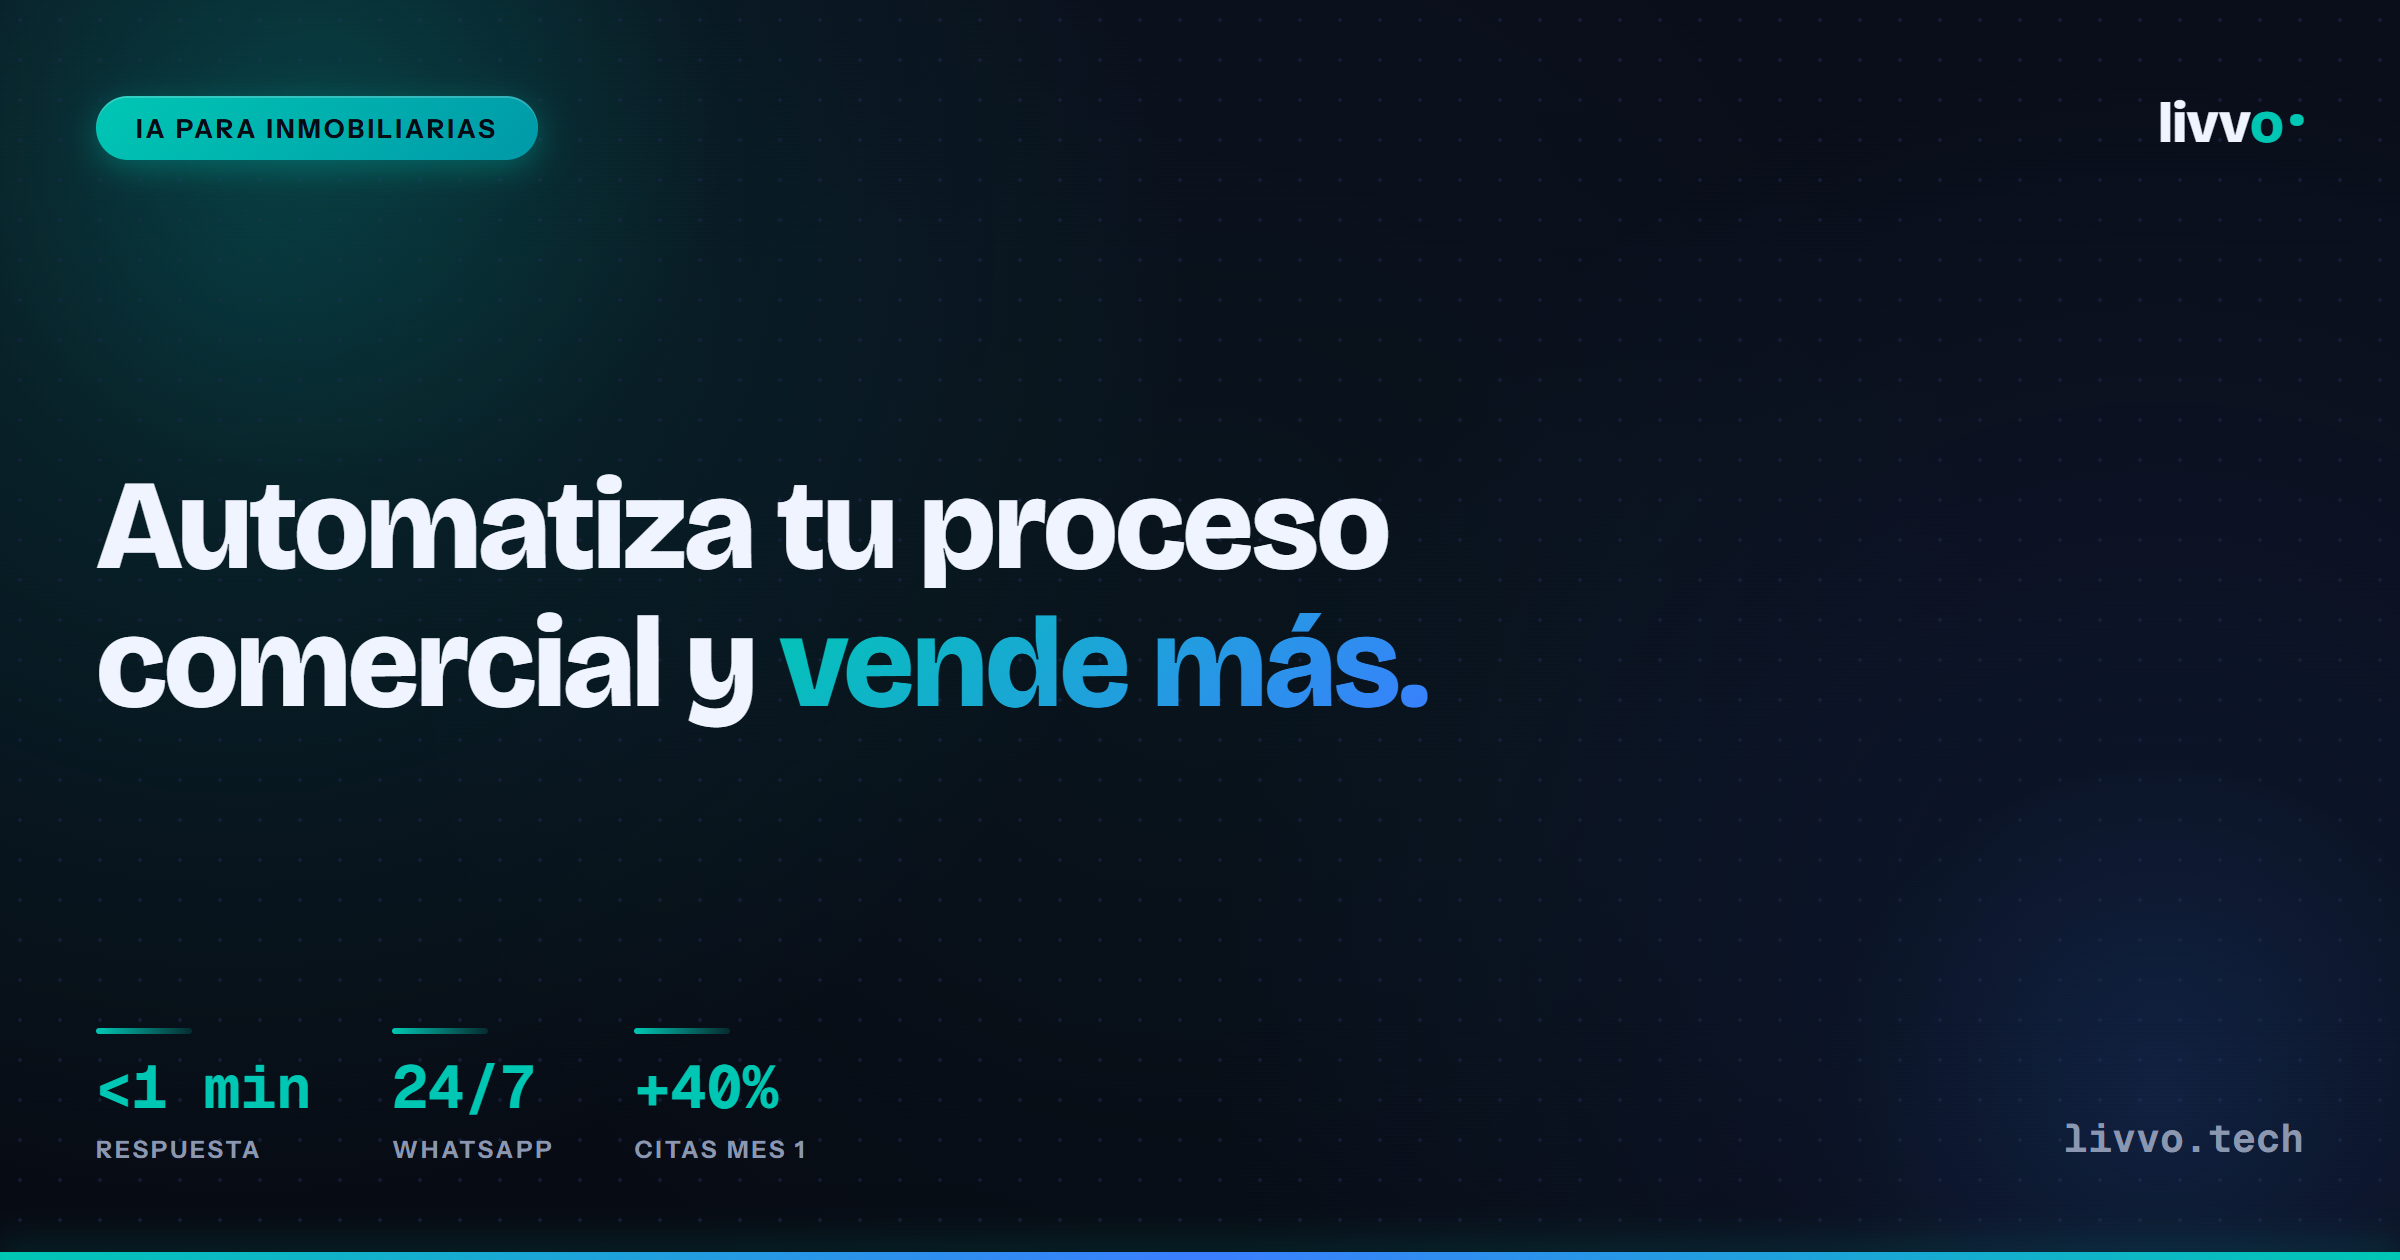
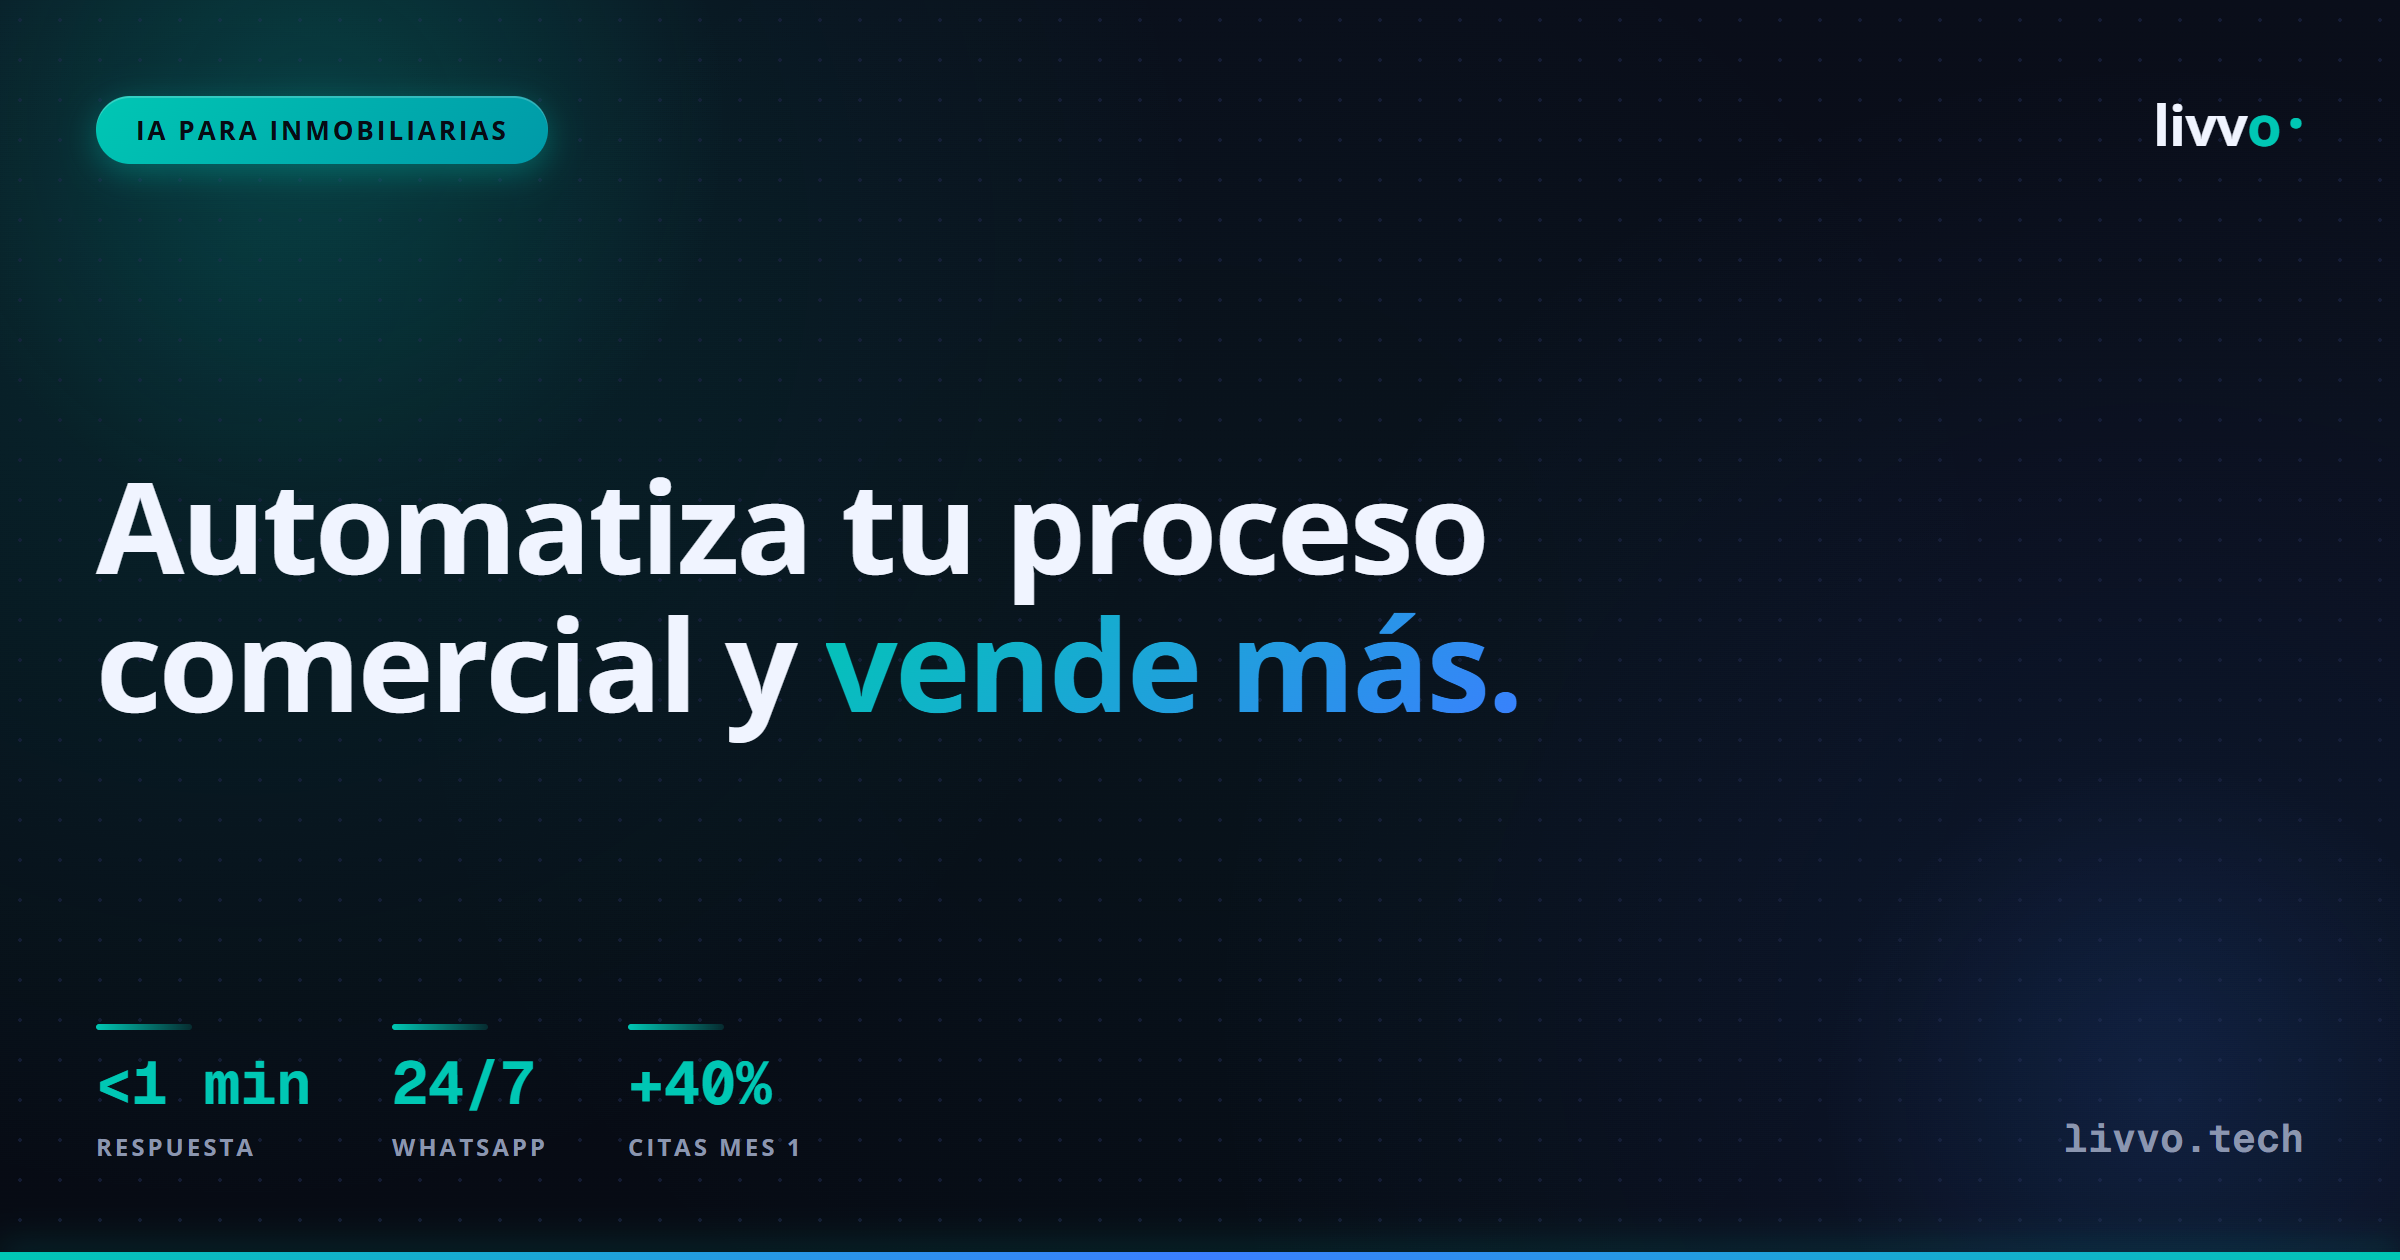
Marketing tambien migra a Open Sans
- marketing-design-system.md (espejo del skill livvo-designer):
  Open Sans reemplaza a Bricolage/Instrument en tipografia, recetas
  y patrones; pesos maximos 700
- og.png regenerado con Open Sans
- README del design system: la decision tipografica ahora cubre
  toda la marca

diff --git a/design-system/marketing-design-system.md b/design-system/marketing-design-system.md
@@ -113,29 +113,30 @@ background: linear-gradient(135deg, rgba(0, 199, 180, 0.06) 0%, rgba(59, 126, 25
 
 ### Typography
 
-Livvo uses **three font families** with strict, non-negotiable roles. Always import all three:
+Livvo uses **two font families** (decisión de marca 22-jul-2026 — Open Sans reemplazó a
+Bricolage Grotesque e Instrument Sans en toda la marca; jerarquía por peso, tipo Zillow,
+por credibilidad con compradores inmobiliarios LATAM). Always import both:
 
 ```html
 <link rel="preconnect" href="https://fonts.googleapis.com">
 <link rel="preconnect" href="https://fonts.gstatic.com" crossorigin>
-<link href="https://fonts.googleapis.com/css2?family=Bricolage+Grotesque:opsz,wght@12..96,400;12..96,700;12..96,800&family=Instrument+Sans:ital,wght@0,400;0,600;1,400&family=Geist+Mono:wght@400;700&display=swap" rel="stylesheet">
+<link href="https://fonts.googleapis.com/css2?family=Open+Sans:wght@300;400;600;700&family=Geist+Mono:wght@400;700&display=swap" rel="stylesheet">
 ```
 
 | Family | Role | Never use for |
 |--------|------|---------------|
-| **Bricolage Grotesque** | Display & Headlines — wordmark, hero titles, section headers | Body copy, labels, data |
-| **Instrument Sans** | UI & Body — buttons, labels, body copy, navigation | Headlines, metrics |
+| **Open Sans** | Todo el texto — titulares (700), labels (600), cuerpo (400) | Metrics, data |
 | **Geist Mono** | Code & Data — metrics, IDs, timestamps, stats, technical values | Any flowing prose |
 
 | Element | Size | Weight | Family | Color (dark bg) | Letter Spacing |
 |---------|------|--------|--------|-----------------|----------------|
-| Hero / Display | 56–80px | 800 | Bricolage Grotesque | `#F0F4FF` | -1px |
-| H1 | 36–48px | 800 | Bricolage Grotesque | `#F0F4FF` | -0.5px |
-| H2 | 24–32px | 700 | Bricolage Grotesque | `#F0F4FF` | 0 |
-| H3 | 18–22px | 600 | Instrument Sans | `#F0F4FF` | 0 |
-| Body Large | 16–18px | 400 | Instrument Sans | `#8B96AF` | 0 |
-| Body Regular | 13–15px | 400 | Instrument Sans | `#8B96AF` | 0 |
-| Label / Tag | 10–13px | 700 | Instrument Sans | `#00C7B4` | 1.5–2px |
+| Hero / Display | 56–72px | 700 | Open Sans | `#F0F4FF` | -1px |
+| H1 | 36–48px | 700 | Open Sans | `#F0F4FF` | -0.5px |
+| H2 | 24–32px | 700 | Open Sans | `#F0F4FF` | -0.5px |
+| H3 | 18–22px | 600 | Open Sans | `#F0F4FF` | 0 |
+| Body Large | 16–18px | 400 | Open Sans | `#8B96AF` | 0 |
+| Body Regular | 13–15px | 400 | Open Sans | `#8B96AF` | 0 |
+| Label / Tag | 10–13px | 600 | Open Sans | `#00C7B4` | 0.5–1px |
 | Metric / Stat | 20–40px | 700 | Geist Mono | `#F0F4FF` or `#00C7B4` | 0 |
 | Caption / Code | 11–12px | 400 | Geist Mono | `#8B96AF` | 0.5px |
 
@@ -176,14 +177,14 @@ Every Livvo design is a single self-contained HTML file:
   <meta name="viewport" content="width={WIDTH}, initial-scale=1">
   <link rel="preconnect" href="https://fonts.googleapis.com">
   <link rel="preconnect" href="https://fonts.gstatic.com" crossorigin>
-  <link href="https://fonts.googleapis.com/css2?family=Bricolage+Grotesque:opsz,wght@12..96,400;12..96,700;12..96,800&family=Instrument+Sans:ital,wght@0,400;0,600;1,400&family=Geist+Mono:wght@400;700&display=swap" rel="stylesheet">
+  <link href="https://fonts.googleapis.com/css2?family=Open+Sans:wght@300;400;600;700&family=Geist+Mono:wght@400;700&display=swap" rel="stylesheet">
   <style>
     * { margin: 0; padding: 0; box-sizing: border-box; }
     body {
       width: {WIDTH}px;
       height: {HEIGHT}px;
       overflow: hidden;
-      font-family: 'Instrument Sans', system-ui, sans-serif;
+      font-family: 'Open Sans', system-ui, sans-serif;
       background: #070B14;
       position: relative;
     }
@@ -378,7 +379,7 @@ Teal lines define hierarchy — they are not ornamental. Use sparingly.
   color: #070B14;
   padding: 8px 20px;
   border-radius: 20px;
-  font-family: 'Instrument Sans', sans-serif;
+  font-family: 'Open Sans', sans-serif;
   font-size: 12px;
   font-weight: 700;
   text-transform: uppercase;
@@ -433,7 +434,7 @@ Teal lines define hierarchy — they are not ornamental. Use sparingly.
   color: #00C7B4; line-height: 1;
 }
 .stat-label {
-  font-family: 'Instrument Sans', sans-serif;
+  font-family: 'Open Sans', sans-serif;
   font-size: 11px; font-weight: 700;
   text-transform: uppercase; letter-spacing: 1.5px;
   color: #8B96AF; margin-top: 6px;
@@ -469,7 +470,7 @@ Teal lines define hierarchy — they are not ornamental. Use sparingly.
   display: inline-flex; align-items: center; gap: 8px;
   background: #111827; border: 1px solid #1A2240;
   border-radius: 8px; padding: 8px 14px;
-  font-family: 'Instrument Sans', sans-serif;
+  font-family: 'Open Sans', sans-serif;
   font-size: 12px; font-weight: 600; color: #F0F4FF;
 }
 .channel-dot {
@@ -485,8 +486,8 @@ Teal lines define hierarchy — they are not ornamental. Use sparingly.
   width: 64px; height: 64px; border-radius: 50%;
   background: linear-gradient(135deg, #6C63FF 0%, #4A44CC 100%);
   display: flex; align-items: center; justify-content: center;
-  font-family: 'Bricolage Grotesque', sans-serif;
-  font-size: 24px; font-weight: 800; color: #FFFFFF;
+  font-family: 'Open Sans', sans-serif;
+  font-size: 24px; font-weight: 700; color: #FFFFFF;
   box-shadow:
     0 0 0 6px rgba(108, 99, 255, 0.2),
     0 0 0 12px rgba(108, 99, 255, 0.1),
@@ -500,7 +501,7 @@ Teal lines define hierarchy — they are not ornamental. Use sparingly.
 .btn-primary {
   background: linear-gradient(135deg, #00C7B4 0%, #0099A8 100%);
   color: #070B14; border: none; border-radius: 8px;
-  padding: 12px 24px; font-family: 'Instrument Sans', sans-serif;
+  padding: 12px 24px; font-family: 'Open Sans', sans-serif;
   font-size: 14px; font-weight: 700;
   box-shadow: 0 4px 16px rgba(0, 199, 180, 0.35);
   letter-spacing: 0.3px;
@@ -508,7 +509,7 @@ Teal lines define hierarchy — they are not ornamental. Use sparingly.
 .btn-secondary {
   background: #111827; color: #F0F4FF;
   border: 1px solid #1A2240; border-radius: 8px;
-  padding: 12px 24px; font-family: 'Instrument Sans', sans-serif;
+  padding: 12px 24px; font-family: 'Open Sans', sans-serif;
   font-size: 14px; font-weight: 600;
 }
 ```
@@ -571,7 +572,7 @@ Same SVG — replace `fill="#F0F4FF"` with `fill="#070B14"` on the first `<g>`.
 #### HTML Wordmark (pure CSS — use when SVG alignment is tricky)
 
 ```html
-<div style="font-family: 'Bricolage Grotesque', sans-serif; font-weight: 800;
+<div style="font-family: 'Open Sans', sans-serif; font-weight: 700;
             display: inline-flex; align-items: baseline; line-height: 1;">
   <span style="color: #F0F4FF; letter-spacing: -0.5px;">livv</span>
   <span style="color: #00C7B4; letter-spacing: -0.5px;">o</span>
@@ -620,13 +621,13 @@ Minimum 16px clearance around wordmark at all times.
 
 **LinkedIn Banner (1584×396)**:
 Dark base. Dot grid. Teal glow bleeding off top-right corner. Logo top-left (28px). Teal bar bottom.
-Left 55%: 2–3 line headline (Bricolage Grotesque 42px, one word teal gradient) + subtitle (Muted).
+Left 55%: 2–3 line headline (Open Sans 42px, one word teal gradient) + subtitle (Muted).
 Right 45%: 2–3 stat boxes or channel pills stacked vertically. Separator between columns.
 
 **LinkedIn Page Banner (1128×191)**:
 Tiny canvas — every pixel counts. Dark base, dot grid. Logo top-left (20px). Teal bar bottom (3px).
-Single centered headline (Bricolage Grotesque 28px, one word teal gradient).
-Tagline below (Instrument Sans 12px, Muted). 1–2 teal badge pills. Minimal orbs.
+Single centered headline (Open Sans 28px, one word teal gradient).
+Tagline below (Open Sans 12px, Muted). 1–2 teal badge pills. Minimal orbs.
 
 **LinkedIn Post / OG Image (1200×627)**:
 Dark base. Logo top-right (28px). Teal badge pill (UPPERCASE label) top area.
@@ -641,14 +642,14 @@ Keep consistent layout across all slides in the series.
 
 **Presentation Slide (1920×1080)**:
 Logo top-left (36px). Slide number top-right (Geist Mono, Muted).
-Section label (Instrument Sans, UPPERCASE, Teal, 11px) above headline.
+Section label (Open Sans, UPPERCASE, Teal, 11px) above headline.
 Two-column: text left (40–45%), visual/stats right (55–60%).
 Teal vertical accent line as column divider.
 Full-bleed dot grid. Teal glow top-left, blue glow bottom-right.
 
 **WhatsApp Story (1080×1920)**:
 Full dark background. Logo top-left (30px). Teal badge pill below.
-Large bold title center (Bricolage Grotesque 72–80px, teal gradient on key word).
+Large bold title center (Open Sans 72–80px, teal gradient on key word).
 Supporting stats row in Geist Mono.
 CTA button (teal primary) + livvo.tech URL in Geist Mono bottom.
 Concentric rings behind the title as a single decorative accent.
@@ -668,7 +669,7 @@ Bottom accent bar. High-impact teal glow top-left.
 - Never use Luisa Violet (`#6C63FF`) outside of Luisa IA specific content
 - Never use more than 3 chromatic colors simultaneously in one composition
 - Never apply the teal gradient text to body copy (headlines and key words only)
-- Never use fonts other than Bricolage Grotesque, Instrument Sans, or Geist Mono
+- Never use fonts other than Open Sans or Geist Mono
 - Never center the logo on a horizontal banner (top-left or top-right only)
 - Never omit the teal dot (·) after "livvo" in the wordmark
 - Never place the wordmark on a low-contrast background
@@ -774,7 +775,7 @@ Nota de marca (jul-2026): el azul oficial es `#3B7EFF` y el dominio es **livvo.t
 Before finalizing, verify every point:
 
 - [ ] Body dimensions match the chosen viewport preset exactly
-- [ ] Google Fonts import for Bricolage Grotesque + Instrument Sans + Geist Mono is present
+- [ ] Google Fonts import for Open Sans + Geist Mono is present
 - [ ] Background uses layered radial gradients — not a flat `#070B14`
 - [ ] Dot grid layer is present with correct spacing and color for the canvas size
 - [ ] At least 2 teal/blue glow orbs positioned bleeding off canvas edges
@@ -958,3 +959,4 @@ Does the teal gradient on that one headline word create hierarchy, or just noise
 
 Tighten anything loose. This should look like the output of a team that builds their product
 with the same care they put into their brand — because Livvo does.
+

diff --git a/design-system/README.md b/design-system/README.md
@@ -25,11 +25,11 @@ desactualiza porque usa el mismo código que el sitio. El toggle del navbar camb
 - Azul oficial: **#3B7EFF** (jul-2026; reemplaza al #3B9EFF del handoff original)
 - Tema oscuro web = superficies del sistema de marketing: `#070B14 / #0D1424 / #111827 / #1A2240`,
   texto `#F0F4FF`, muted `#8B96AF`, teal directo sobre oscuro
-- Tipografía web (22-jul-2026): **Open Sans** (titulares 700, labels 600, cuerpo 400 — jerarquía tipo
-  Zillow: H1 32/H2 24/H3 20/body 16/small 14, mobile H1 24/body 15) + **Geist Mono** solo datos.
-  Razón: credibilidad para compradores inmobiliarios LATAM. Reemplaza a Bricolage/Instrument del
-  handoff original. Las piezas de marketing (skill livvo-designer) siguen con Bricolage/Instrument
-  hasta nueva decisión.
+- Tipografía de **toda la marca** (22-jul-2026): **Open Sans** (titulares 700, labels 600, cuerpo
+  400 — jerarquía tipo Zillow; en web: H1 32/H2 24/H3 20/body 16/small 14, mobile H1 24/body 15) +
+  **Geist Mono** solo datos. Razón: credibilidad para compradores inmobiliarios LATAM. Reemplaza a
+  Bricolage Grotesque e Instrument Sans en la web Y en las piezas de marketing (skill livvo-designer
+  ya migrado).
 - El logo es **vectorial** (`Logo.astro` / `Livvo_logo.svg`) — no depende de la fuente de UI
 - Teal `#00C7B4` único color de CTA; violeta `#6C63FF` exclusivo de Luisa IA
 - El punto del wordmark "livvo·" nunca se omite; logo nunca centrado en banners horizontales